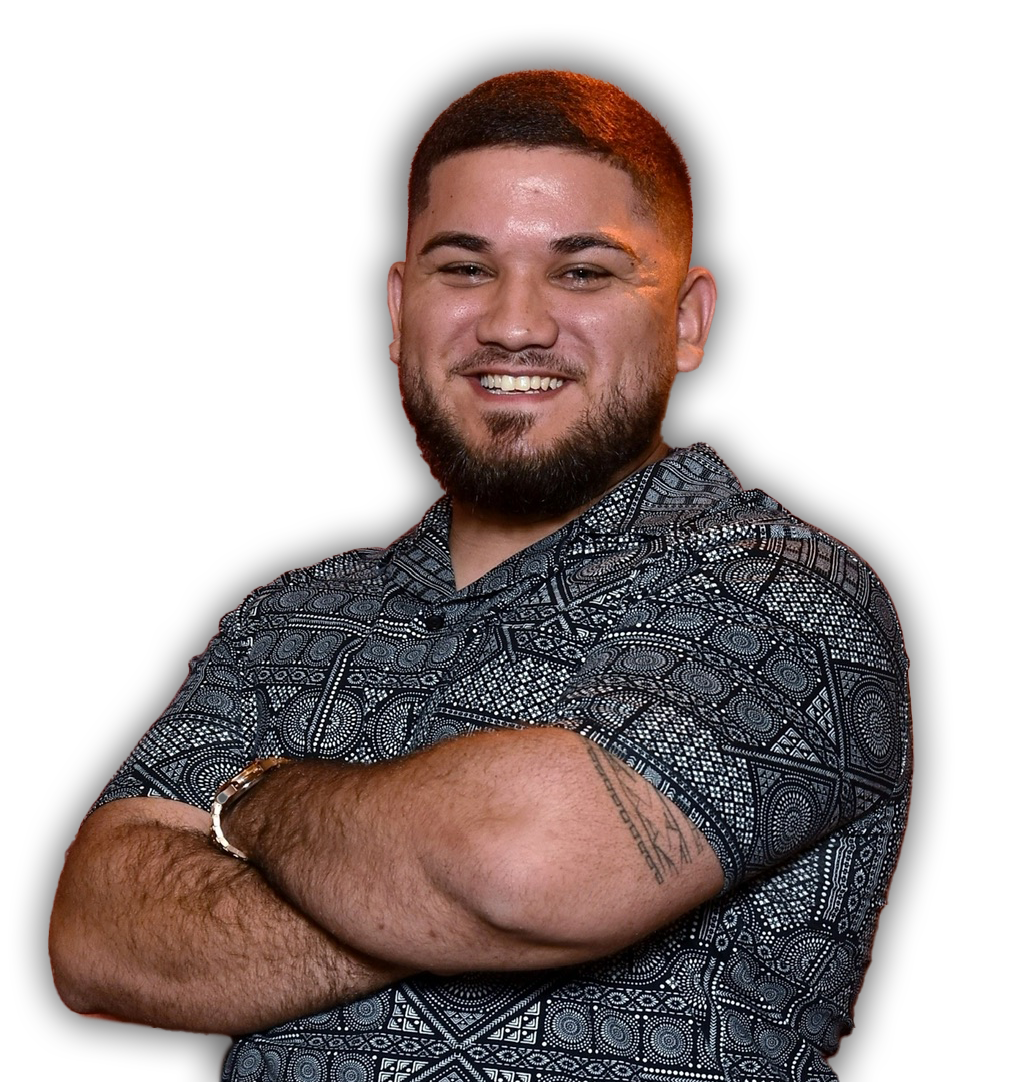
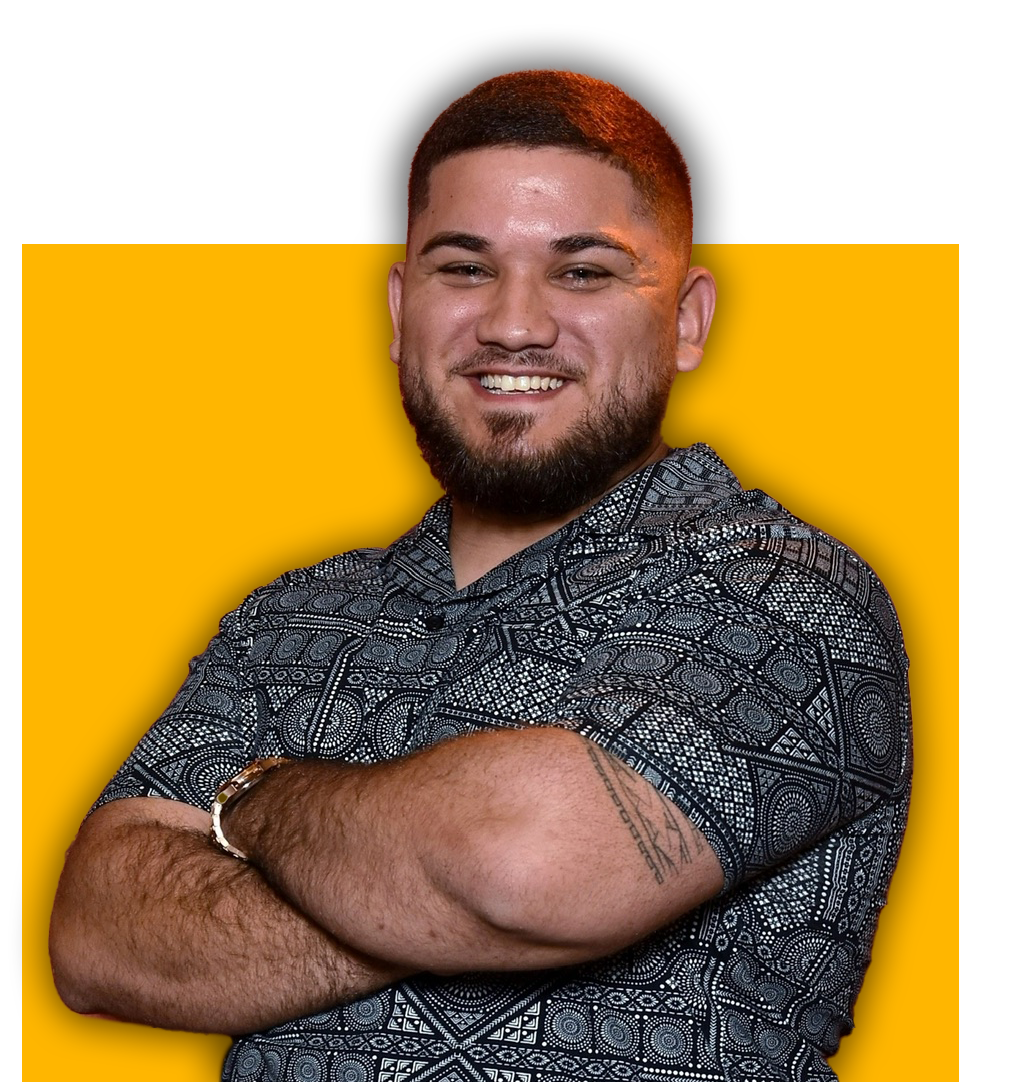
added head, header, and main title elements to HTML as well as  including CSS Styling

Changed region(s): [[0.0, 0.2135, 0.4366, 1.0], [0.6238, 0.2135, 0.9357, 1.0]]

diff --git a/assets/css/style.css b/assets/css/style.css
@@ -1,0 +1,81 @@
+/* font-family: 'Kanit' */
+@import url('https://fonts.googleapis.com/css2?family=Kanit:wght@400;700&family=Oxygen:wght@400;700&display=swap');
+
+*{
+   box-sizing: border-box;
+   margin: 0;
+   padding: 0;
+   background-color: #07272d; 
+}
+
+/* HEADER */
+
+li, a {
+    font-family: "Kanit", sans-serif;
+    font-weight: 400;
+    font-size: 22px;
+    color: #ffffff;
+    text-decoration: none;
+}
+
+header {
+    display: flex;
+    justify-content: flex-end;
+    align-items: center;
+    padding: 50px, 10%;
+}
+
+.logo {
+    cursor: pointer;
+    width: 500px;
+    margin-right: auto;
+    padding: 20px;
+}
+
+.nav__links {
+    list-style: none;
+}
+
+.nav__links li {
+    display: inline-block;
+    padding: 0px, 50px;
+    margin-right: 70px;
+}
+
+.nav__links li a {
+    transition: all 0.3s ease 0s;
+}
+
+.nav__links li a:hover {
+    color: #ffb600;
+}
+
+/* PAGE TITLE */
+
+.page-title {
+    font-family: "Kanit", sans-serif;
+    display: flex;
+    align-items: center;
+    flex-direction: row-reverse;
+    justify-content: space-around;
+}
+
+.portrait-photo {
+    display: block;
+    margin-top: 50px;
+    margin-bottom: 10px;
+    border-radius: 20px;
+    width: 700px;
+}
+
+.title-text h2{
+    font-size: 150px;
+    color: #ffb600;
+}
+
+.title-text h3{
+    font-size: 70px;
+    color: #ffffff;
+    letter-spacing: 60px;
+    line-height: .3;
+}

diff --git a/index.html b/index.html
@@ -1,0 +1,34 @@
+<html lang="en">
+<head>
+    <meta charset="UTF-8">
+    <meta http-equiv="X-UA-Compatible" content="IE=edge">
+    <meta name="viewport" content="width=device-width, initial-scale=1.0">
+    <title>Web Developer Portfolio - David Delgado</title>
+    <link rel="stylesheet" href="./assets/css/style.css">
+</head>
+<body>
+    <header>
+        <img class="logo" src="./assets/images/DAVID-DELGADO-NAV-LOGO-UPDATED.png" alt="David Delgado's Portfolio Website">
+        <nav>
+            <ul class="nav__links">
+                <li><a href="#About Me">About Me</a></li>
+                <li><a href="#Projects">Projects</a></li>
+                <li><a href="#Contact Me">Contact Me</a></li>
+            </ul>
+        </nav>
+    </header>
+
+    <main class="page-content">
+
+        <div class="page-title">
+            <img class="portrait-photo" src="./assets/images/portfolio-photo.png" alt="portfolio-portrait-photo">
+            <div class="title-text">
+                <h2>MY PORTFOLIO</h1>
+                <h3>IN PROGRESS</h2>
+            </div>
+        </div>
+
+    
+
+</body>
+</html>
